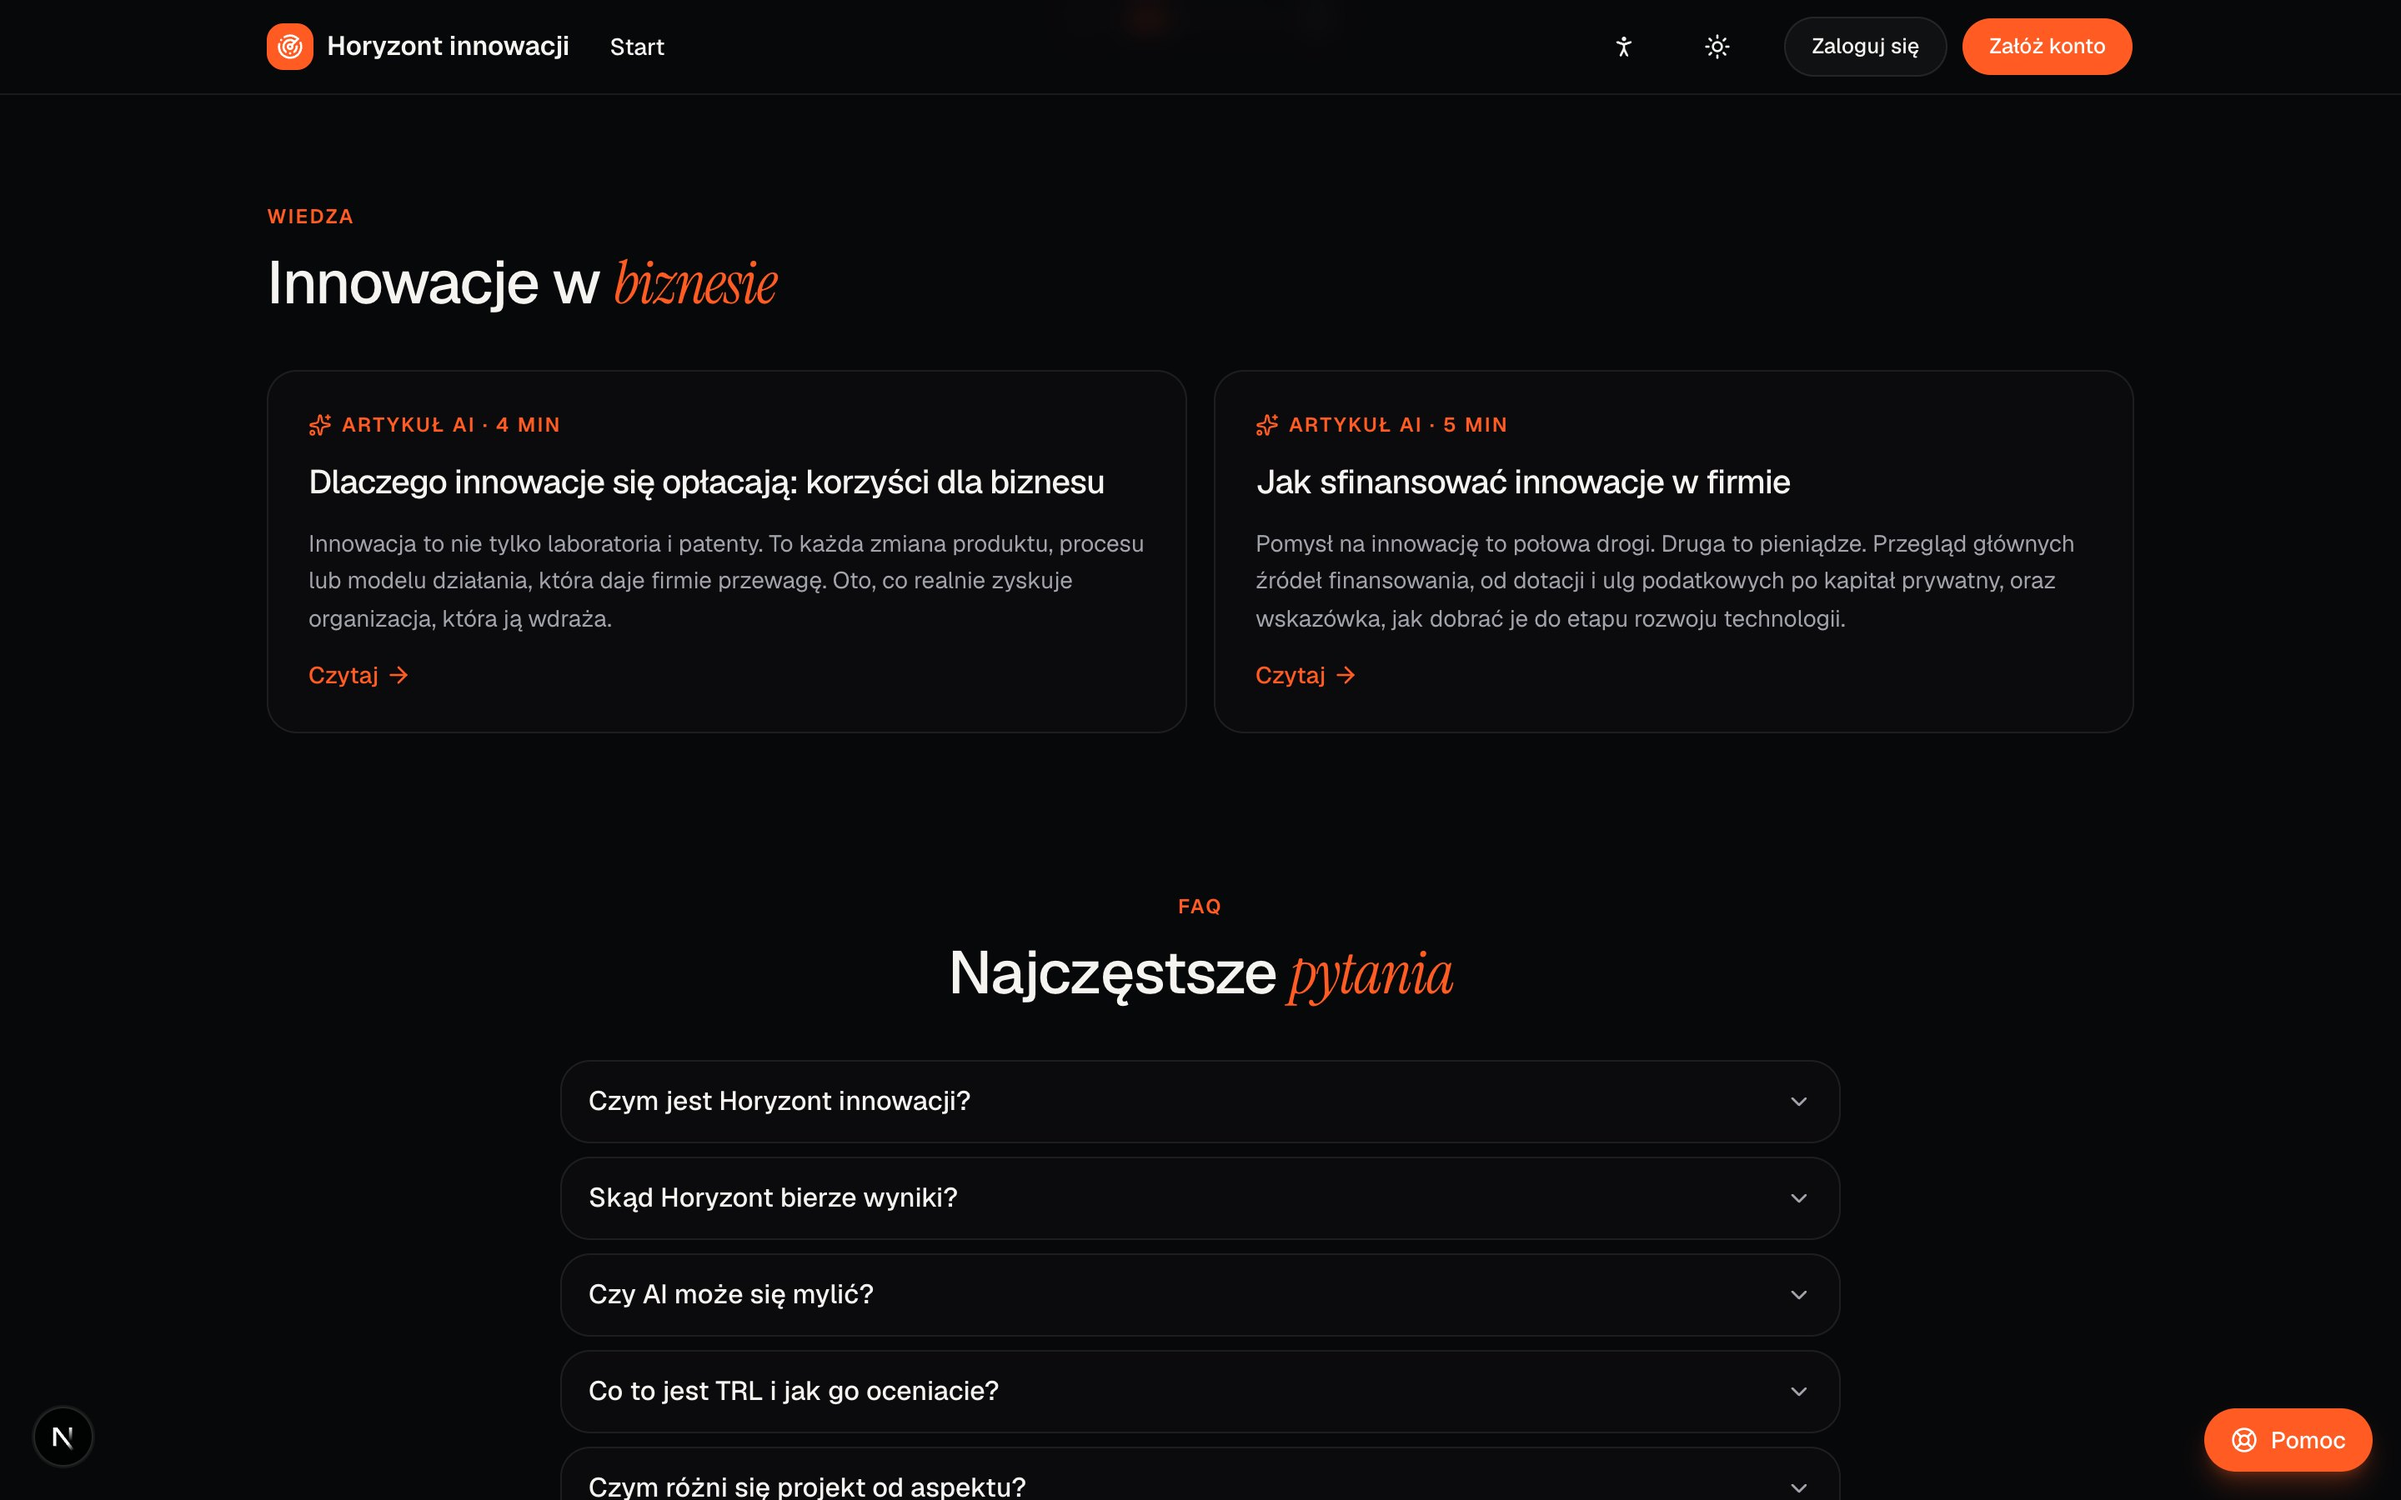
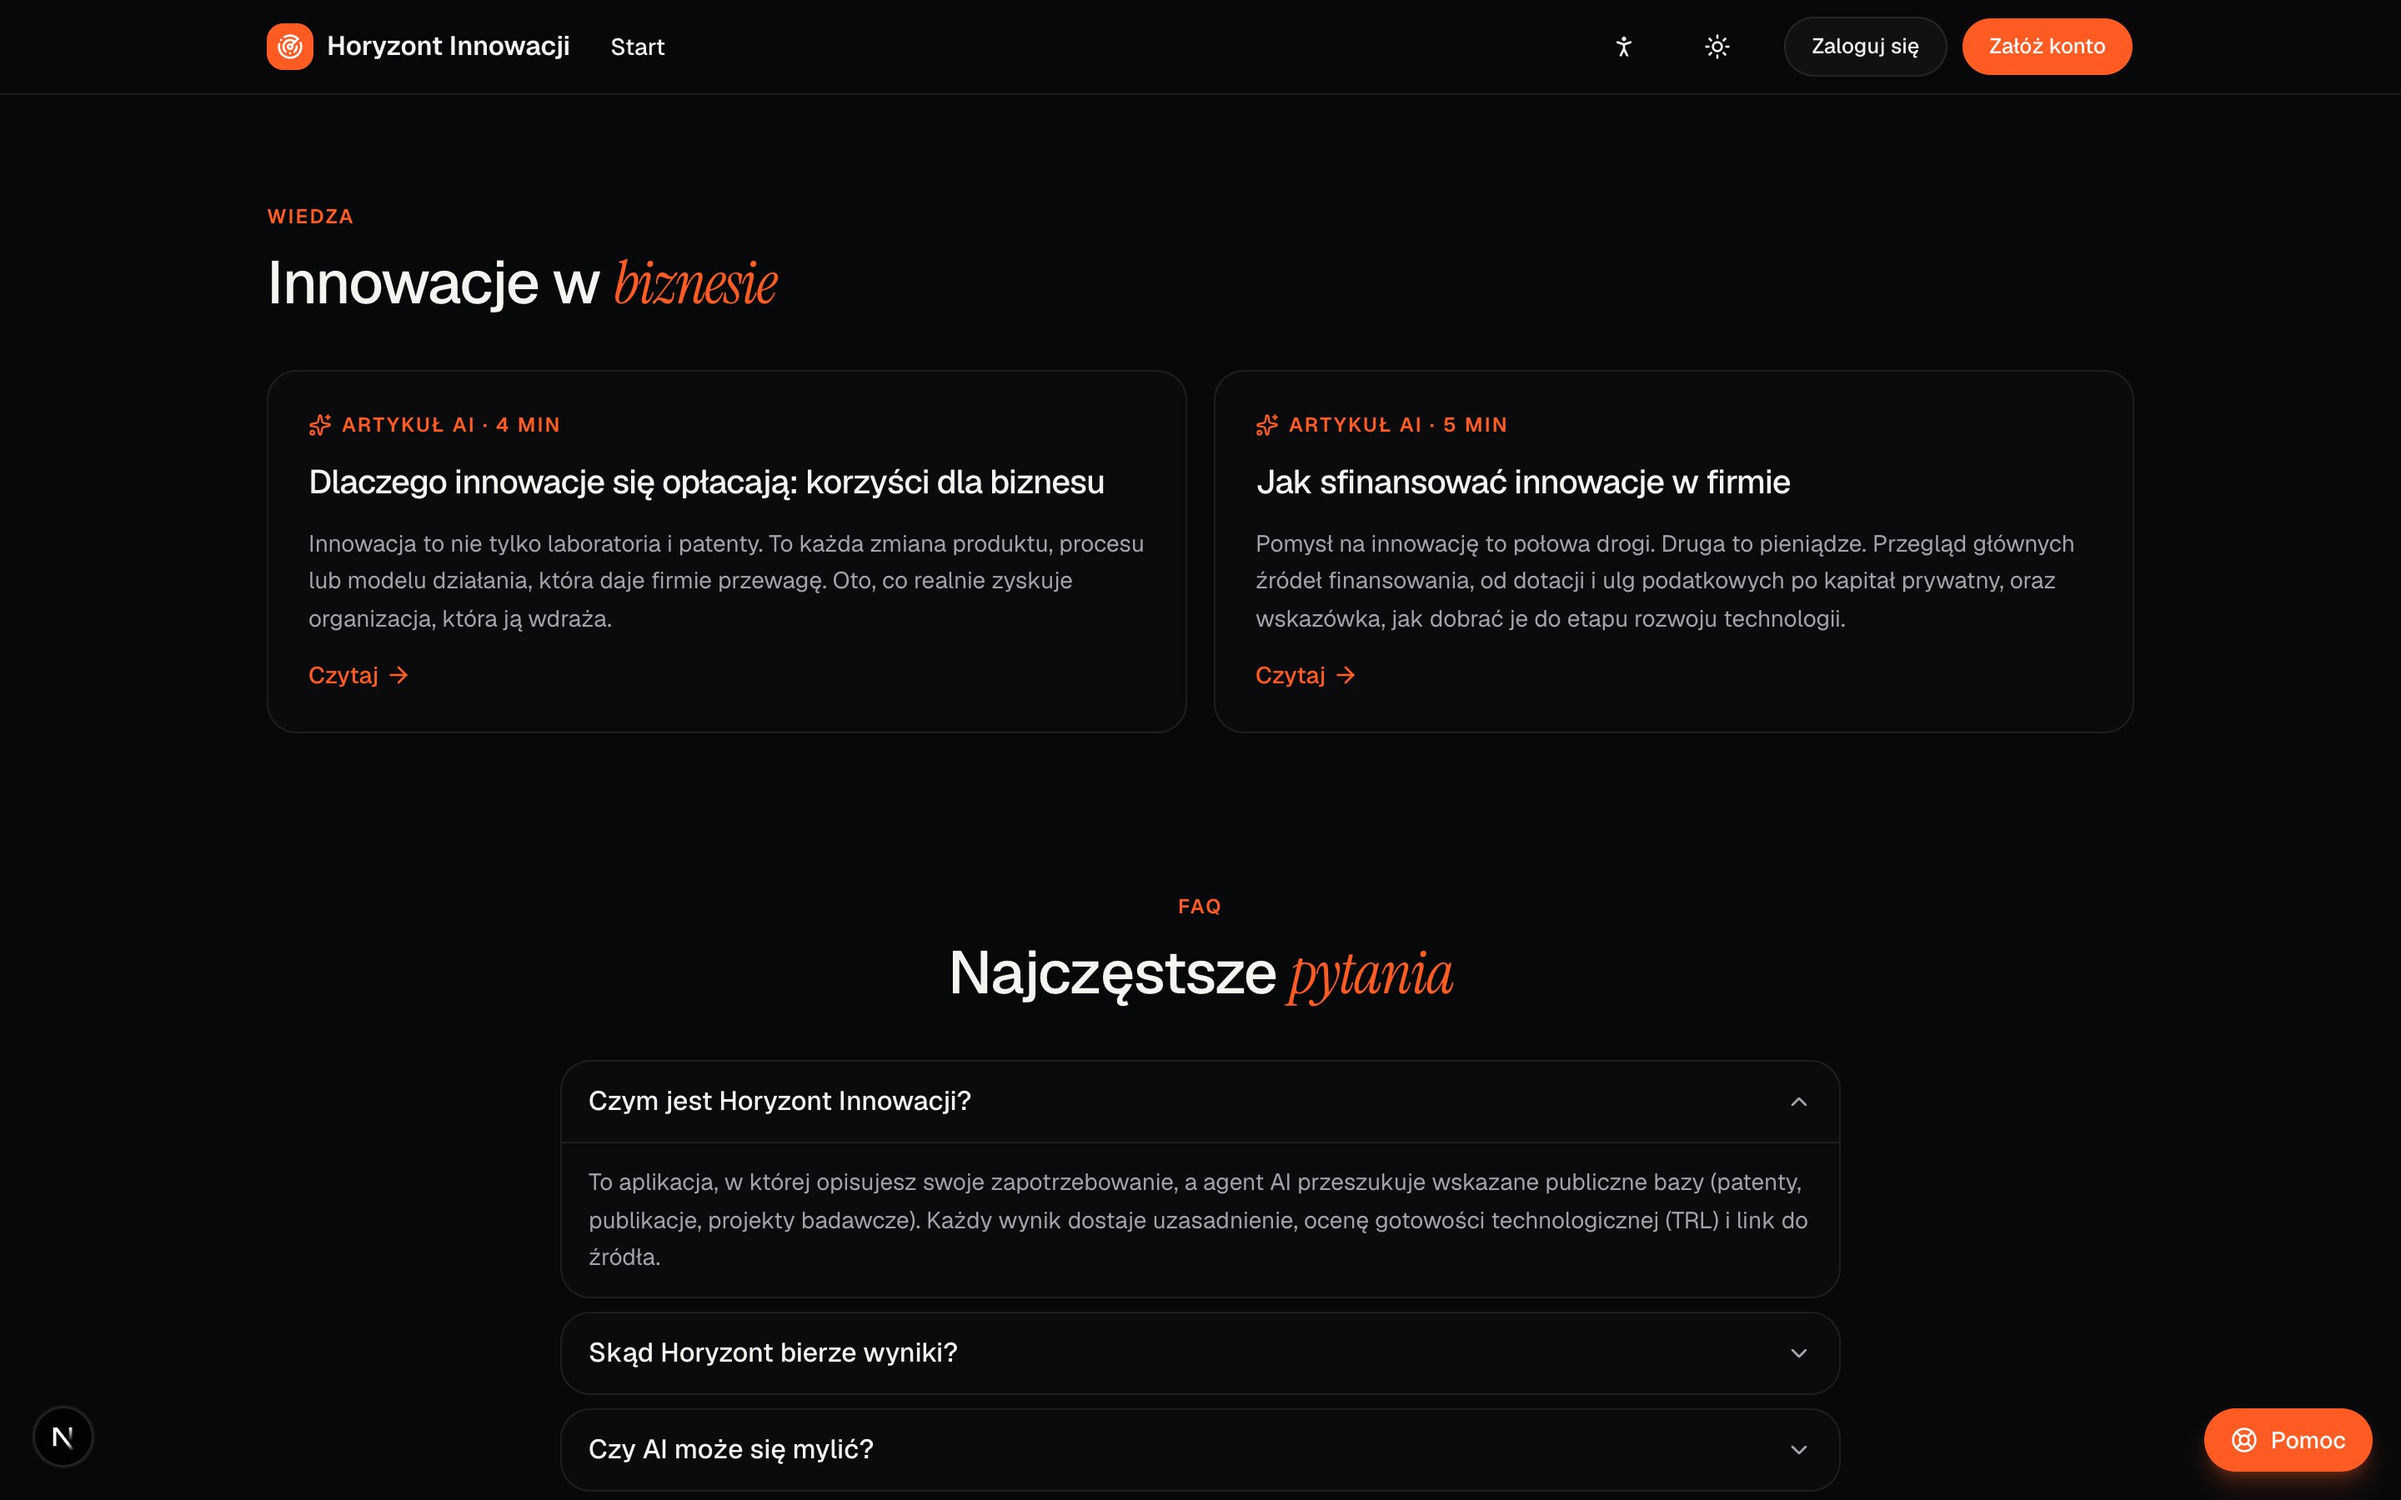
feat: rename the product to "Horyzont Innowacji" (capital I)
- Site config, UI copy, FAQ, e-mail sender, README and docs use the new casing
  (including inflected forms such as "Horyzontu Innowacji")
- Regenerate the README screenshots and the Open Graph / Twitter preview image

diff --git a/src/lib/content.ts b/src/lib/content.ts
@@ -3,7 +3,7 @@ export type FaqItem = { question: string; answer: string };
 
 export const faq: FaqItem[] = [
   {
-    question: "Czym jest Horyzont innowacji?",
+    question: "Czym jest Horyzont Innowacji?",
     answer:
       "To aplikacja, w której opisujesz swoje zapotrzebowanie, a agent AI przeszukuje wskazane publiczne bazy (patenty, publikacje, projekty badawcze). Każdy wynik dostaje uzasadnienie, ocenę gotowości technologicznej (TRL) i link do źródła.",
   },
@@ -144,7 +144,7 @@ export const articles: Article[] = [
         heading: "Jak dobrać źródło do etapu TRL",
         paragraphs: [
           "Na niskich poziomach gotowości (TRL 1–3) najlepiej pasują granty badawcze i współpraca z nauką. Przy prototypie (TRL 4–6) sięga się po dotacje na prace rozwojowe i ulgi podatkowe. Wdrożenie (TRL 7–9) finansuje się częściej kredytem, inwestorem lub dotacją inwestycyjną.",
-          "Zanim złożysz wniosek, zbierz dowody dojrzałości technologii: wyniki badań, opisy prototypów i linki do źródeł. Raport z Horyzontu innowacji z oceną TRL każdego wyniku ułatwia to przygotowanie.",
+          "Zanim złożysz wniosek, zbierz dowody dojrzałości technologii: wyniki badań, opisy prototypów i linki do źródeł. Raport z Horyzontu Innowacji z oceną TRL każdego wyniku ułatwia to przygotowanie.",
         ],
       },
     ],

diff --git a/src/app/(public)/page.tsx b/src/app/(public)/page.tsx
@@ -226,12 +226,12 @@ export default async function Home() {
       </section>
 
       <section className="space-y-4 text-center">
-        <h2 className="text-xl font-medium tracking-tight">Poleć Horyzont innowacji</h2>
+        <h2 className="text-xl font-medium tracking-tight">Poleć Horyzont Innowacji</h2>
         <p className="text-sm text-muted-foreground">
           Znasz firmę, której przyda się takie narzędzie? Podziel się linkiem.
         </p>
         <ShareButtons
-          title="Horyzont innowacji: agent AI szuka gotowych innowacji dla Twojej firmy"
+          title="Horyzont Innowacji: agent AI szuka gotowych innowacji dla Twojej firmy"
           className="justify-center"
         />
       </section>

diff --git a/src/lib/env.ts b/src/lib/env.ts
@@ -14,7 +14,7 @@ const envSchema = z.object({
   ADMIN_EMAILS: z.string().optional(),
   // E-mail (Resend). Bez klucza wiadomości trafiają tylko do konsoli serwera.
   RESEND_API_KEY: z.string().optional(),
-  EMAIL_FROM: z.string().default("Horyzont innowacji <contact@rafalski.dev>"),
+  EMAIL_FROM: z.string().default("Horyzont Innowacji <contact@rafalski.dev>"),
   // "true" = agent zwraca przykładowych kandydatów bez wywołania API (testy UI za darmo)
   AGENT_MOCK: z.string().optional(),
   // Cloudflare R2 (pliki PDF przy potrzebach). Opcjonalne: bez nich aplikacja działa, a dodawanie plików jest wyłączone.

diff --git a/src/components/landing/bento.tsx b/src/components/landing/bento.tsx
@@ -167,7 +167,7 @@ export function Bento() {
               <div className="flex items-center justify-between text-xs">
                 <span className="flex items-center gap-1.5 font-medium">
                   <RadarIcon className="size-3.5 text-brand" />
-                  Horyzont innowacji
+                  Horyzont Innowacji
                 </span>
                 <span className="font-mono text-muted-foreground">3 wyniki</span>
               </div>

diff --git a/src/lib/site.ts b/src/lib/site.ts
@@ -2,7 +2,7 @@
 export type NavItem = { href: string; label: string };
 
 export const site = {
-  name: "Horyzont innowacji",
+  name: "Horyzont Innowacji",
   description:
     "Znajdź gotowe innowacje, patenty i projekty dla swojej firmy. Asystent AI przeszukuje źródła publiczne i uzasadnia dopasowanie.",
   nav: [{ href: "/", label: "Start" }] satisfies NavItem[],

diff --git a/src/lib/blocklist.ts b/src/lib/blocklist.ts
@@ -20,4 +20,4 @@ export async function findBlockedTopic(...texts: (string | null | undefined)[]) 
 }
 
 export const blockedTopicMessage = (phrase: string) =>
-  `Temat jest niedozwolony w Horyzoncie innowacji (fraza: „${phrase}”)`;
+  `Temat jest niedozwolony w Horyzoncie Innowacji (fraza: „${phrase}”)`;

diff --git a/README.md b/README.md
@@ -1,8 +1,8 @@
 <div align="center">
 
-<img src="docs/screenshots/01-home-hero.jpg" alt="Horyzont innowacji: strona główna" width="100%" />
+<img src="docs/screenshots/01-home-hero.jpg" alt="Horyzont Innowacji: strona główna" width="100%" />
 
-# 📡 Horyzont innowacji
+# 📡 Horyzont Innowacji
 
 **Transfer innowacji dla każdego.**
 
@@ -31,7 +31,7 @@ Agent AI przeszukuje publiczne bazy patentów, publikacji i projektów badawczyc
 
 Rozwiązanie często **już istnieje**, tylko leży w bazie, której nikt nie przeszukał. Firmy budują od zera rzeczy, które od lat opisują projekty NCBiR, publikacje naukowe czy patenty. Horyzont robi to przeszukiwanie za nich, a **człowiek decyduje**, co zostaje.
 
-Horyzont innowacji powstał jako prototyp na **HackNation 2026 w Bydgoszczy** z inicjatywy [Podkarpackiego Centrum Innowacji](https://pcinn.org/). Użytkownik opisuje swój problem, AI proponuje frazy do wyszukiwarki, a agent przeszukuje wybrane publiczne bazy (NCBiR, RAD-on, Mapa Dotacji UE, Interreg) i pokazuje wyniki, które można zebrać w raport dla zespołu.
+Horyzont Innowacji powstał jako prototyp na **HackNation 2026 w Bydgoszczy** z inicjatywy [Podkarpackiego Centrum Innowacji](https://pcinn.org/). Użytkownik opisuje swój problem, AI proponuje frazy do wyszukiwarki, a agent przeszukuje wybrane publiczne bazy (NCBiR, RAD-on, Mapa Dotacji UE, Interreg) i pokazuje wyniki, które można zebrać w raport dla zespołu.
 
 ## 🧭 Jak to działa
 

diff --git a/docs/PROJECT.md b/docs/PROJECT.md
@@ -1,4 +1,4 @@
-# Opis projektu: Horyzont innowacji
+# Opis projektu: Horyzont Innowacji
 
 > Projekt na hackathon PCI. Wytyczne organizatorów: [`CHALLENGE.md`](CHALLENGE.md).
 > Claude czyta ten plik na początku każdego zadania, a `/start-project` buduje z niego plan encji.
@@ -106,7 +106,7 @@ tickety zalogowanego użytkownika; filtr trzymamy w jednym miejscu (`src/queries
 
 ## Etap 1 (zrobiony)
 
-1. `src/lib/site.ts`: nazwa „Horyzont innowacji”, opis, nawigacja.
+1. `src/lib/site.ts`: nazwa „Horyzont Innowacji”, opis, nawigacja.
 2. Strona główna `/`: hasło, 4 kroki procesu (Zgłoś → Ocena → Rekomendacja → Partner),
    przyciski „Załóż konto” i „Zaloguj się”.
 3. Better Auth: `/register` (imię, e-mail, hasło, rola), `/login`, wylogowanie w nagłówku,
@@ -279,7 +279,7 @@ Ustalone:
 
 - Wagi kryteriów: **równe, po 20%**.
 - Model AI: **Anthropic**.
-- Nazwa aplikacji: **Horyzont innowacji**.
+- Nazwa aplikacji: **Horyzont Innowacji**.
 - Logowanie: **Better Auth**, 3 role (`USER`, `OFFICIAL`, `BUSINESS`); w etapie 1 tylko `USER`.
 - UI dashboardu inspirowany **Jirą**.
 
